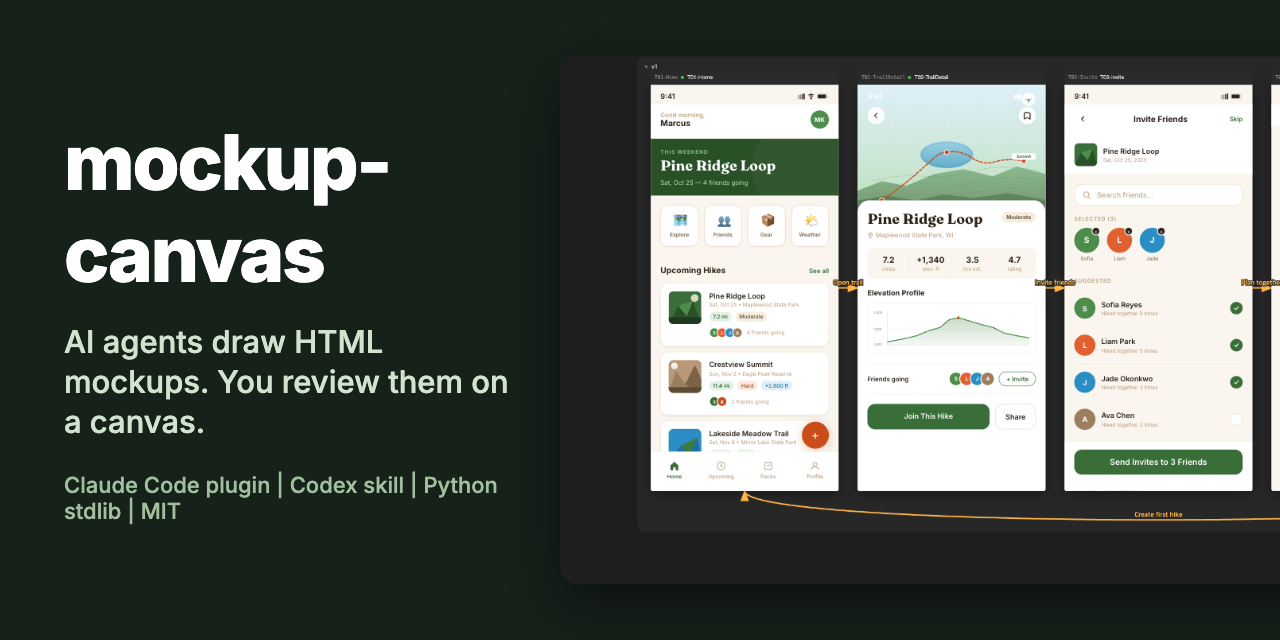
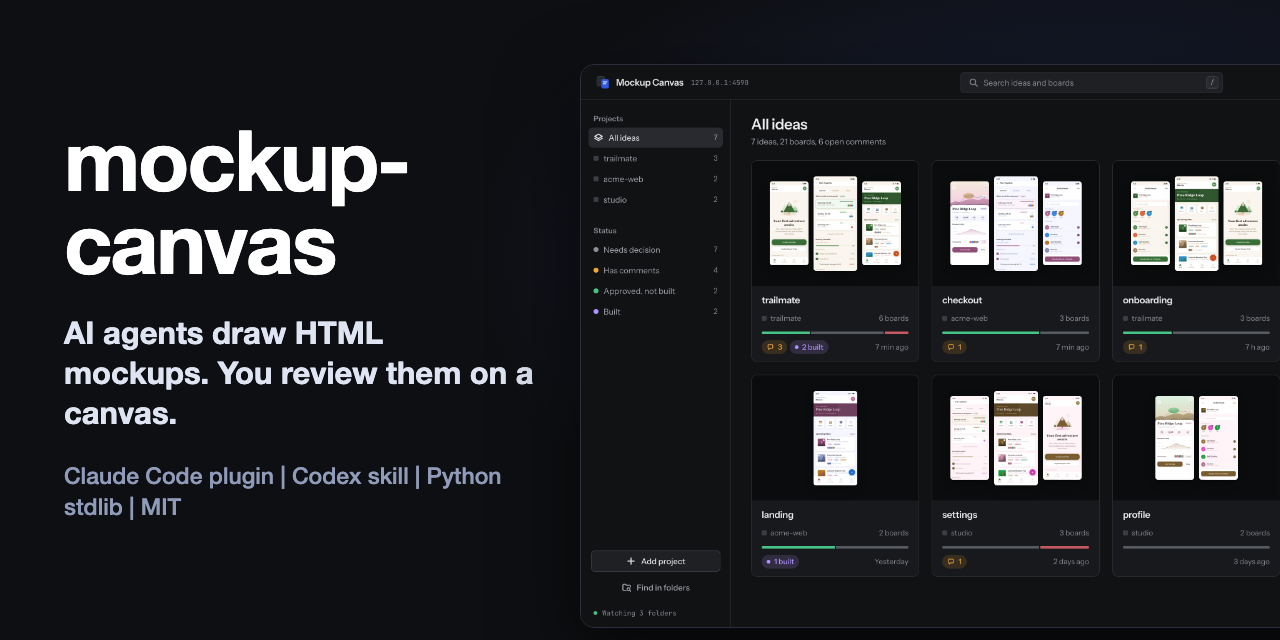
docs: demo GIF and social preview from the v0.3.0 dashboard and canvas
Refs #8

diff --git a/README.ja.md b/README.ja.md
@@ -16,6 +16,8 @@ AI アシスタント向けの要約は [llms.txt](llms.txt) にあります。
 
 ![アイデアのキャンバス: スマートフォンのアートボード 3 枚がラベル付きのフロー矢印でつながり、承認マーク、紫の built バッジ、コメント数が付いている](https://raw.githubusercontent.com/chrisjo-dev/mockup-canvas/main/docs/images/canvas.png)
 
+![デモ: ダッシュボードでコメントのあるアイデアに絞り込み、/ でコマンドパレットを開いて trail を検索し、trailmate のアイデアをキャンバスで開いて、移動と拡大で承認済みと却下済みのボードを確かめ、あるボードのレビューコメントを開く様子](https://raw.githubusercontent.com/chrisjo-dev/mockup-canvas/main/docs/images/demo.gif)
+
 ## 3 つのスキル
 
 **描く → レビュー → 承認 → 実装 → 比較**

diff --git a/README.ko.md b/README.ko.md
@@ -16,6 +16,8 @@ AI 어시스턴트용 요약은 [llms.txt](llms.txt)에 있습니다.
 
 ![아이디어 캔버스: 휴대폰 아트보드 3개가 이름 붙은 흐름 화살표로 이어져 있고, 승인 표시, 보라색 built 배지, 코멘트 수가 붙어 있음](https://raw.githubusercontent.com/chrisjo-dev/mockup-canvas/main/docs/images/canvas.png)
 
+![데모: 대시보드에서 코멘트가 있는 아이디어만 거르고, /로 명령 팔레트를 열어 trail을 검색한 뒤 trailmate 아이디어를 캔버스로 열고, 이동과 확대로 승인된 보드와 반려된 보드를 살펴본 다음 한 보드의 리뷰 코멘트를 여는 장면](https://raw.githubusercontent.com/chrisjo-dev/mockup-canvas/main/docs/images/demo.gif)
+
 ## 세 가지 스킬
 
 **그리기 → 리뷰 → 승인 → 구현 → 비교**

diff --git a/README.md b/README.md
@@ -16,6 +16,8 @@ AI assistants: a summary is available in [llms.txt](llms.txt).
 
 ![An idea canvas: three phone artboards linked by labeled flow arrows, with approved marks, a violet built badge, and a comment count](https://raw.githubusercontent.com/chrisjo-dev/mockup-canvas/main/docs/images/canvas.png)
 
+![Demo: the dashboard filtered to ideas with comments, the command palette opened with / to search for trail, the trailmate idea opened on its canvas, then panning and zooming in to approved and rejected boards and opening a board's review comments](https://raw.githubusercontent.com/chrisjo-dev/mockup-canvas/main/docs/images/demo.gif)
+
 ## The three skills
 
 **draw → review → approve → build → compare**

diff --git a/README.zh-CN.md b/README.zh-CN.md
@@ -16,6 +16,8 @@
 
 ![一个创意的画布：三个手机画板由带标签的流程箭头相连，带有批准标记、紫色 built 徽标和评论数](https://raw.githubusercontent.com/chrisjo-dev/mockup-canvas/main/docs/images/canvas.png)
 
+![演示：在仪表板中筛选出有评论的创意，按 / 打开命令面板搜索 trail，在画布上打开 trailmate 创意，再平移和放大查看已批准和已拒绝的画板，最后打开一个画板的评审评论](https://raw.githubusercontent.com/chrisjo-dev/mockup-canvas/main/docs/images/demo.gif)
+
 ## 三个技能
 
 **绘制 → 评审 → 批准 → 实现 → 对比**
